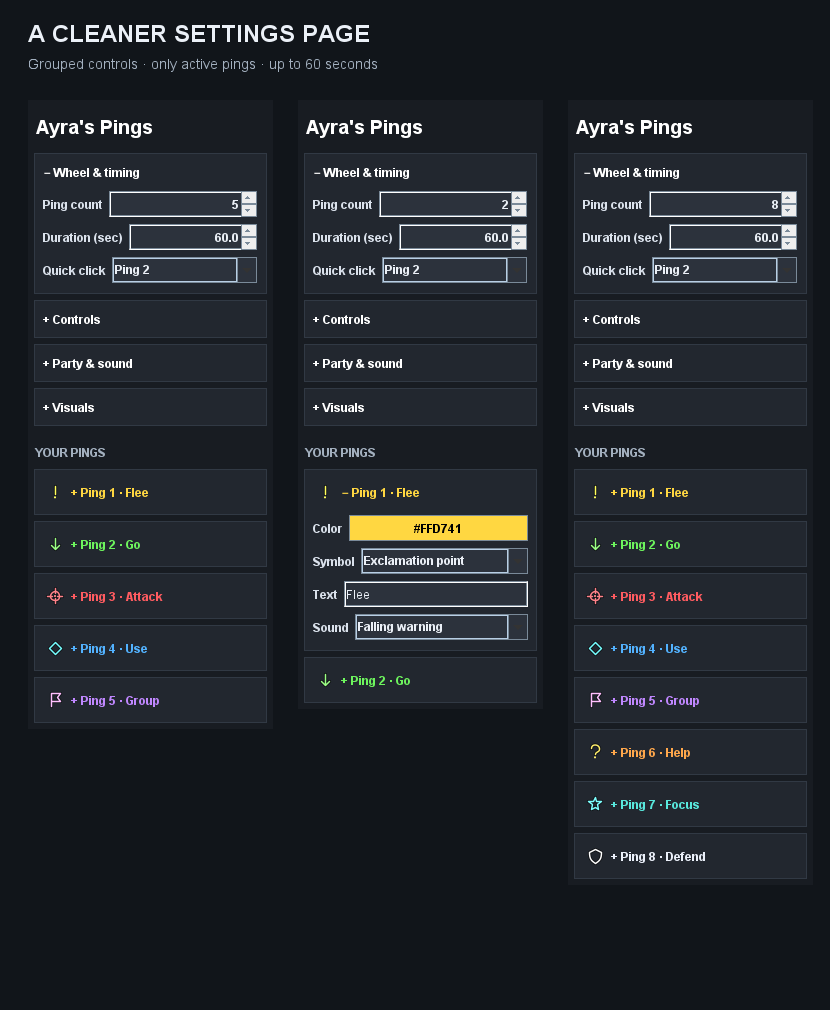
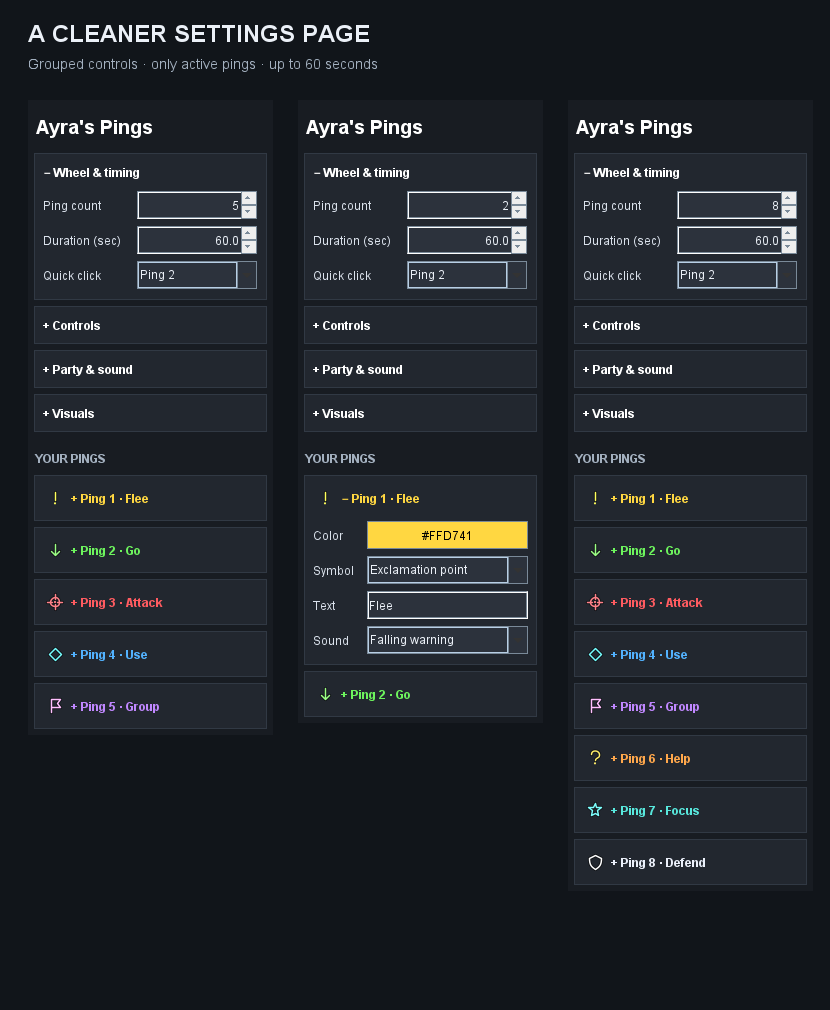
Align ping editor fields and preserve text caret during editing

diff --git a/src/main/java/com/tacticalpings/PingSettingsPanel.java b/src/main/java/com/tacticalpings/PingSettingsPanel.java
@@ -271,13 +271,23 @@ public class PingSettingsPanel extends PluginPanel
 
 	private static void row(JPanel parent, String text, JComponent control)
 	{
+		row(parent, text, control, 88);
+	}
+
+	private static void row(JPanel parent, String text, JComponent control, int labelWidth)
+	{
 		JPanel row = new JPanel(new BorderLayout(6, 0));
 		row.setOpaque(false);
 		JLabel label = new JLabel(text);
 		label.setForeground(new Color(218, 225, 235));
+		Font fieldFont = new Font(Font.SANS_SERIF, Font.PLAIN, 12);
+		label.setFont(fieldFont);
+		label.setPreferredSize(new Dimension(labelWidth, 28));
 		label.setLabelFor(control);
 		control.getAccessibleContext().setAccessibleName(text);
-		control.setPreferredSize(new Dimension(115, 26));
+		control.setFont(fieldFont);
+		control.setPreferredSize(new Dimension(115, 28));
+		row.setPreferredSize(new Dimension(labelWidth + 121, 28));
 		row.add(label, BorderLayout.WEST);
 		row.add(control, BorderLayout.CENTER);
 		parent.add(row);
@@ -304,10 +314,10 @@ public class PingSettingsPanel extends PluginPanel
 				picker.setOnClose(selected -> save(slot.getConfigPrefix() + "Color", selected));
 				picker.setVisible(true);
 			});
-			row(card.body, "Color", color);
+			row(card.body, "Color", color, 48);
 			symbol.setName(slot.getConfigPrefix() + "Symbol");
 			symbol.addActionListener(e -> save(slot.getConfigPrefix() + "Symbol", symbol.getSelectedItem()));
-			row(card.body, "Symbol", symbol);
+			row(card.body, "Symbol", symbol, 48);
 			text.setName(slot.getConfigPrefix() + "Text");
 			text.setToolTipText("Your text, up to 64 characters. Enter or leave the field to save.");
 			((AbstractDocument) text.getDocument()).setDocumentFilter(new DocumentFilter()
@@ -322,8 +332,23 @@ public class PingSettingsPanel extends PluginPanel
 				public void replace(FilterBypass fb, int offset, int length, String value, AttributeSet attrs) throws BadLocationException
 				{
 					String previous = fb.getDocument().getText(0, fb.getDocument().getLength());
-					String proposed = previous.substring(0, offset) + (value == null ? "" : value) + previous.substring(offset + length);
-					fb.replace(0, previous.length(), PingStyle.cleanText(proposed), attrs);
+					String before = previous.substring(0, offset);
+					String after = previous.substring(offset + length);
+					String retained = before + after;
+					int available = Math.max(0, PingStyle.MAX_TEXT_LENGTH - retained.codePointCount(0, retained.length()));
+					String inserted = PingStyle.cleanText(value == null ? "" : value);
+					int end = inserted.offsetByCodePoints(0, Math.min(available, inserted.codePointCount(0, inserted.length())));
+					inserted = inserted.substring(0, end);
+					String proposed = before + inserted + after;
+					if (PingStyle.validText(proposed))
+					{
+						fb.replace(offset, length, inserted, attrs);
+					}
+					else
+					{
+						// A selection through half of a surrogate pair must not leave invalid text.
+						fb.replace(0, previous.length(), PingStyle.cleanText(proposed), attrs);
+					}
 				}
 			});
 			text.addActionListener(e -> save(slot.getConfigPrefix() + "Text", text.getText()));
@@ -335,7 +360,7 @@ public class PingSettingsPanel extends PluginPanel
 					save(slot.getConfigPrefix() + "Text", text.getText());
 				}
 			});
-			row(card.body, "Text", text);
+			row(card.body, "Text", text, 48);
 			sound.setName(slot.getConfigPrefix() + "Sound");
 			sound.addActionListener(e ->
 			{
@@ -345,7 +370,7 @@ public class PingSettingsPanel extends PluginPanel
 					audio.play((PingSound) sound.getSelectedItem());
 				}
 			});
-			row(card.body, "Sound", sound);
+			row(card.body, "Sound", sound, 48);
 		}
 
 		private void refresh()

diff --git a/src/test/java/com/tacticalpings/PingSettingsPanelTest.java b/src/test/java/com/tacticalpings/PingSettingsPanelTest.java
@@ -131,6 +131,28 @@ public class PingSettingsPanelTest
 	}
 
 	@Test
+	public void editingInTheMiddlePreservesCaretAndTextAfterTheSelection() throws Exception
+	{
+		SwingUtilities.invokeAndWait(() ->
+		{
+			Fixture f = new Fixture();
+			f.count.set(8);
+			PingSettingsPanel panel = f.create();
+			JTextField text = find(panel, "ping8Text", JTextField.class);
+			text.setText("AB");
+			text.setCaretPosition(1);
+			text.replaceSelection("x");
+			assertEquals("AxB", text.getText());
+			assertEquals(2, text.getCaretPosition());
+			text.setText("a".repeat(63) + "Z");
+			text.select(1, 2);
+			text.replaceSelection("🚩extra");
+			assertEquals("a🚩" + "a".repeat(61) + "Z", text.getText());
+			panel.close();
+		});
+	}
+
+	@Test
 	public void accordionHeaderTracksItsExpandedState() throws Exception
 	{
 		SwingUtilities.invokeAndWait(() ->

diff --git a/SUBMISSION.md b/SUBMISSION.md
@@ -48,7 +48,7 @@ The local wheel count does not restrict receiving slots from other players. Reci
 
 Validation on 2026-11-24:
 
-- 76 automated tests covering animation, target identity/expiry, packet validation/isolation/deduplication, scene lifecycle, minimap layouts/rotation/zoom, input priming/cancellation/immediate drag, dependency wiring, all eight wheel counts, shared design/slot round trips and fallbacks, text validation, listener overrides, audio controls and all bundled chimes, conditional settings panels and saved values, accordion state, toolbar lifecycle, and minute-long ping expiry/animation.
+- 77 automated tests covering animation, target identity/expiry, packet validation/isolation/deduplication, scene lifecycle, minimap layouts/rotation/zoom, input priming/cancellation/immediate drag, dependency wiring, all eight wheel counts, shared design/slot round trips and fallbacks, text validation, listener overrides, audio controls and all bundled chimes, conditional settings panels and saved values, accordion state, caret/Unicode editing, toolbar lifecycle, and minute-long ping expiry/animation.
 - Production compilation using the official standard-build dependency list against the Hub's RuneLite version, 1.13.8.
 - Compatibility checks against RuneLite 1.13.7.
 - Offline rendering using the actual Java painter. The user has reported successful sideload testing of the earlier 1.1.0 release; the new customization is covered by automated client fixtures.
